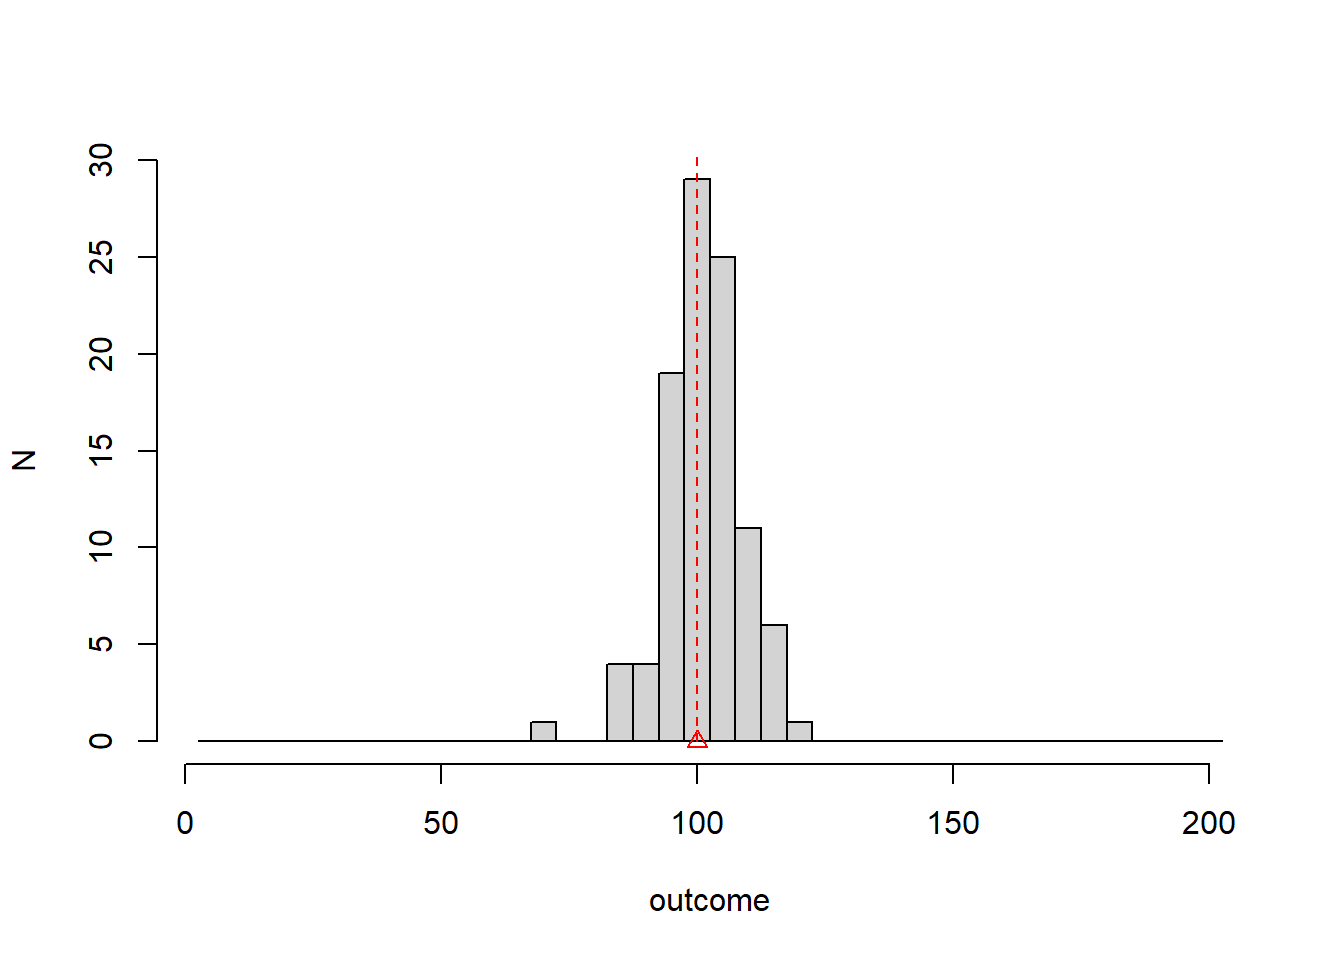
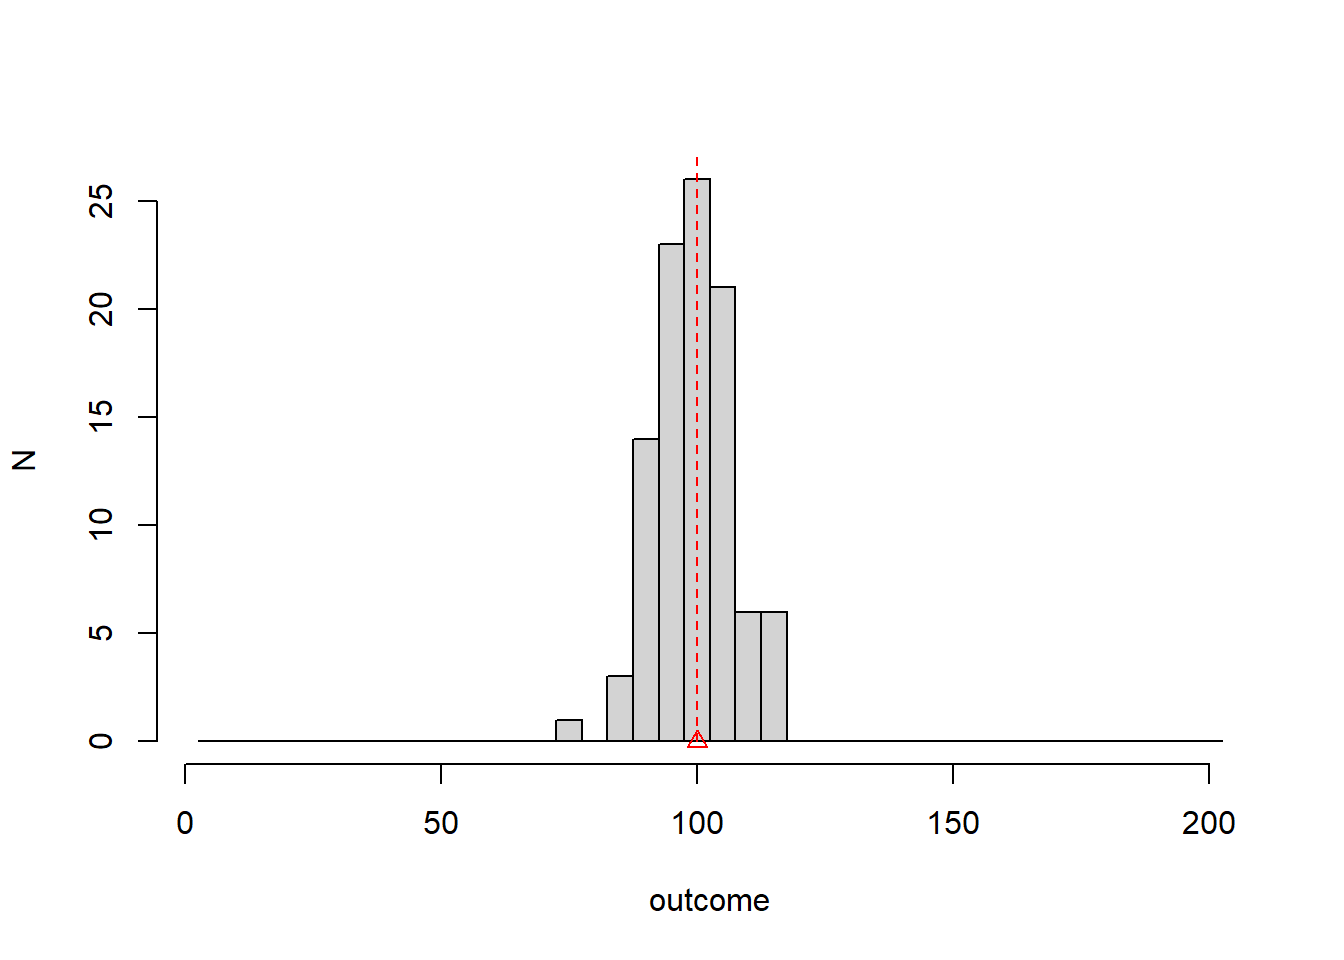
...

diff --git a/statsEEBE/probabilidad-condicional.html b/statsEEBE/probabilidad-condicional.html
@@ -24,7 +24,7 @@
 <meta name="author" content="Alejandro Caceres" />
 
 
-<meta name="date" content="2022-09-05" />
+<meta name="date" content="2022-09-09" />
 
   <meta name="viewport" content="width=device-width, initial-scale=1" />
   <meta name="apple-mobile-web-app-capable" content="yes" />
@@ -532,26 +532,26 @@ especificidad (0.962).</p>
 <table>
 <thead>
 <tr class="header">
-<th></th>
-<th>Infección: Sí</th>
-<th>Infección: Sí</th>
+<th align="center"></th>
+<th align="center">Infección: Sí</th>
+<th align="center">Infección: Sí</th>
 </tr>
 </thead>
 <tbody>
 <tr class="odd">
-<td><b>Test: positivo</b></td>
-<td>P(positivo<span>|</span>sí)=0.7</td>
-<td>P(positivo<span>|</span>no)=0.06</td>
+<td align="center"><b>Test: positivo</b></td>
+<td align="center">P(positivo<span>|</span>sí)=0.7</td>
+<td align="center">P(positivo<span>|</span>no)=0.06</td>
 </tr>
 <tr class="even">
-<td><b>Test: negativo</b></td>
-<td>P(negativo<span>|</span>sí)=0.3</td>
-<td>P(negativo<span>|</span>no)=0.94</td>
+<td align="center"><b>Test: negativo</b></td>
+<td align="center">P(negativo<span>|</span>sí)=0.3</td>
+<td align="center">P(negativo<span>|</span>no)=0.94</td>
 </tr>
 <tr class="odd">
-<td><b>suma</b></td>
-<td>1</td>
-<td>1</td>
+<td align="center"><b>suma</b></td>
+<td align="center">1</td>
+<td align="center">1</td>
 </tr>
 </tbody>
 </table>
@@ -664,30 +664,30 @@ especificidad (0.962).</p>
 <table>
 <thead>
 <tr class="header">
-<th></th>
-<th>Infección: Sí</th>
-<th>Infección: Sí</th>
-<th><b>suma</b></th>
+<th align="center"></th>
+<th align="center">Infección: Sí</th>
+<th align="center">Infección: Sí</th>
+<th align="center"><b>suma</b></th>
 </tr>
 </thead>
 <tbody>
 <tr class="odd">
-<td><b>Test: positivo</b></td>
-<td>P(positivo <span>|</span> sí)P(sí)</td>
-<td>P(positivo <span>|</span> no)P(no)</td>
-<td>P(positivo)</td>
+<td align="center"><b>Test: positivo</b></td>
+<td align="center">P(positivo <span>|</span> sí)P(sí)</td>
+<td align="center">P(positivo <span>|</span> no)P(no)</td>
+<td align="center">P(positivo)</td>
 </tr>
 <tr class="even">
-<td><b>Test: negativo</b></td>
-<td>P(negativo <span>|</span> sí)P(sí)</td>
-<td>P(negativo <span>|</span> no) P(no)</td>
-<td>P(negativo)</td>
+<td align="center"><b>Test: negativo</b></td>
+<td align="center">P(negativo <span>|</span> sí)P(sí)</td>
+<td align="center">P(negativo <span>|</span> no) P(no)</td>
+<td align="center">P(negativo)</td>
 </tr>
 <tr class="odd">
-<td><b>suma</b></td>
-<td>P(sí)</td>
-<td>P(no)</td>
-<td>1</td>
+<td align="center"><b>suma</b></td>
+<td align="center">P(sí)</td>
+<td align="center">P(no)</td>
+<td align="center">1</td>
 </tr>
 </tbody>
 </table>

diff --git a/statsEEBEen/conditional-probability.html b/statsEEBEen/conditional-probability.html
@@ -24,7 +24,7 @@
 <meta name="author" content="Alejandro Caceres" />
 
 
-<meta name="date" content="2022-09-05" />
+<meta name="date" content="2022-09-09" />
 
   <meta name="viewport" content="width=device-width, initial-scale=1" />
   <meta name="apple-mobile-web-app-capable" content="yes" />
@@ -531,26 +531,26 @@ specificity (0.962).</p>
 <table>
 <thead>
 <tr class="header">
-<th></th>
-<th>Infection: Yes</th>
-<th>Infection: No</th>
+<th align="center"></th>
+<th align="center">Infection: Yes</th>
+<th align="center">Infection: No</th>
 </tr>
 </thead>
 <tbody>
 <tr class="odd">
-<td><b>Test: positive</b></td>
-<td>P(positive<span>|</span>yes)=0.7</td>
-<td>P(positive<span>|</span>no)=0.06</td>
+<td align="center"><b>Test: positive</b></td>
+<td align="center">P(positive<span>|</span>yes)=0.7</td>
+<td align="center">P(positive<span>|</span>no)=0.06</td>
 </tr>
 <tr class="even">
-<td><b>Test: negative</b></td>
-<td>P(negative<span>|</span>yes)=0.3</td>
-<td>P(negative<span>|</span>no)=0.94</td>
+<td align="center"><b>Test: negative</b></td>
+<td align="center">P(negative<span>|</span>yes)=0.3</td>
+<td align="center">P(negative<span>|</span>no)=0.94</td>
 </tr>
 <tr class="odd">
-<td><b>sum</b></td>
-<td>1</td>
-<td>1</td>
+<td align="center"><b>sum</b></td>
+<td align="center">1</td>
+<td align="center">1</td>
 </tr>
 </tbody>
 </table>
@@ -663,30 +663,30 @@ specificity (0.962).</p>
 <table>
 <thead>
 <tr class="header">
-<th></th>
-<th>Infection: Yes</th>
-<th>Infection: No</th>
-<th><b>sum</b></th>
+<th align="center"></th>
+<th align="center">Infection: Yes</th>
+<th align="center">Infection: No</th>
+<th align="center"><b>sum</b></th>
 </tr>
 </thead>
 <tbody>
 <tr class="odd">
-<td><b>Test: positive</b></td>
-<td>P(positive <span>|</span> yes)P(yes)</td>
-<td>P(positive <span>|</span> no)P(no)</td>
-<td>P(positive)</td>
+<td align="center"><b>Test: positive</b></td>
+<td align="center">P(positive <span>|</span> yes)P(yes)</td>
+<td align="center">P(positive <span>|</span> no)P(no)</td>
+<td align="center">P(positive)</td>
 </tr>
 <tr class="even">
-<td><b>Test: negative</b></td>
-<td>P(negative <span>|</span> yes)P(yes)</td>
-<td>P(negative <span>|</span> no) P(no)</td>
-<td>P(negative)</td>
+<td align="center"><b>Test: negative</b></td>
+<td align="center">P(negative <span>|</span> yes)P(yes)</td>
+<td align="center">P(negative <span>|</span> no) P(no)</td>
+<td align="center">P(negative)</td>
 </tr>
 <tr class="odd">
-<td><b>sum</b></td>
-<td>P(yes)</td>
-<td>P(no)</td>
-<td>1</td>
+<td align="center"><b>sum</b></td>
+<td align="center">P(yes)</td>
+<td align="center">P(no)</td>
+<td align="center">1</td>
 </tr>
 </tbody>
 </table>

diff --git a/statsEEBE/probabilidad.html b/statsEEBE/probabilidad.html
@@ -24,7 +24,7 @@
 <meta name="author" content="Alejandro Caceres" />
 
 
-<meta name="date" content="2022-09-05" />
+<meta name="date" content="2022-09-09" />
 
   <meta name="viewport" content="width=device-width, initial-scale=1" />
   <meta name="apple-mobile-web-app-capable" content="yes" />
@@ -320,12 +320,12 @@
 <h2><span class="header-section-number">3.7</span> En el infinito<a href="probabilidad.html#en-el-infinito" class="anchor-section" aria-label="Anchor link to header"></a></h2>
 <p>Digamos que repetimos el experimento 1000 veces:</p>
 <pre><code>##   outcome  ni    fi
-## 1       1 146 0.146
-## 2       2 157 0.157
-## 3       3 183 0.183
-## 4       4 181 0.181
-## 5       5 180 0.180
-## 6       6 153 0.153</code></pre>
+## 1       1 149 0.149
+## 2       2 175 0.175
+## 3       3 171 0.171
+## 4       4 177 0.177
+## 5       5 161 0.161
+## 6       6 167 0.167</code></pre>
 <p>Encontramos que <span class="math inline">\(f_i\)</span> está convergiendo a un valor constante</p>
 <p><span class="math display">\[lim_{N\rightarrow \infty} f_i = P_i\]</span></p>
 <p><img src="_main_files/figure-html/unnamed-chunk-26-1.png" width="672" /></p>

diff --git a/statsEEBEen/probability.html b/statsEEBEen/probability.html
@@ -24,7 +24,7 @@
 <meta name="author" content="Alejandro Caceres" />
 
 
-<meta name="date" content="2022-09-05" />
+<meta name="date" content="2022-09-09" />
 
   <meta name="viewport" content="width=device-width, initial-scale=1" />
   <meta name="apple-mobile-web-app-capable" content="yes" />
@@ -319,12 +319,12 @@
 <h2><span class="header-section-number">3.7</span> At infinity<a href="probability.html#at-infinity" class="anchor-section" aria-label="Anchor link to header"></a></h2>
 <p>Say we repeated the experiment 1000 times:</p>
 <pre><code>##   outcome  ni    fi
-## 1       1 171 0.171
-## 2       2 167 0.167
-## 3       3 174 0.174
-## 4       4 159 0.159
-## 5       5 178 0.178
-## 6       6 151 0.151</code></pre>
+## 1       1 186 0.186
+## 2       2 163 0.163
+## 3       3 165 0.165
+## 4       4 153 0.153
+## 5       5 171 0.171
+## 6       6 162 0.162</code></pre>
 <p>We find that <span class="math inline">\(f_i\)</span> is converging to a constant value</p>
 <p><span class="math display">\[lim_{N\rightarrow \infty} f_i = P_i\]</span></p>
 <p><img src="_main_files/figure-html/unnamed-chunk-26-1.png" width="672" /></p>

diff --git a/statsEEBE/index.html b/statsEEBE/index.html
@@ -24,7 +24,7 @@
 <meta name="author" content="Alejandro Caceres" />
 
 
-<meta name="date" content="2022-09-05" />
+<meta name="date" content="2022-09-09" />
 
   <meta name="viewport" content="width=device-width, initial-scale=1" />
   <meta name="apple-mobile-web-app-capable" content="yes" />
@@ -226,7 +226,7 @@
 <div id="header">
 <h1 class="title">Estadística</h1>
 <p class="author"><em>Alejandro Caceres</em></p>
-<p class="date"><em>2022-09-05</em></p>
+<p class="date"><em>2022-09-09</em></p>
 </div>
 <div id="objetivo" class="section level1 hasAnchor" number="1">
 <h1><span class="header-section-number">Chapter 1</span> Objetivo<a href="index.html#objetivo" class="anchor-section" aria-label="Anchor link to header"></a></h1>

diff --git a/statsEEBEen/index.html b/statsEEBEen/index.html
@@ -24,7 +24,7 @@
 <meta name="author" content="Alejandro Caceres" />
 
 
-<meta name="date" content="2022-09-05" />
+<meta name="date" content="2022-09-09" />
 
   <meta name="viewport" content="width=device-width, initial-scale=1" />
   <meta name="apple-mobile-web-app-capable" content="yes" />
@@ -225,7 +225,7 @@
 <div id="header">
 <h1 class="title">Stats theory (SDA)</h1>
 <p class="author"><em>Alejandro Caceres</em></p>
-<p class="date"><em>2022-09-05</em></p>
+<p class="date"><em>2022-09-09</em></p>
 </div>
 <div id="about" class="section level1 hasAnchor" number="1">
 <h1><span class="header-section-number">Chapter 1</span> About<a href="index.html#about" class="anchor-section" aria-label="Anchor link to header"></a></h1>

diff --git a/statsEEBE/descripción-de-datos.html b/statsEEBE/descripción-de-datos.html
@@ -24,7 +24,7 @@
 <meta name="author" content="Alejandro Caceres" />
 
 
-<meta name="date" content="2022-09-05" />
+<meta name="date" content="2022-09-09" />
 
   <meta name="viewport" content="width=device-width, initial-scale=1" />
   <meta name="apple-mobile-web-app-capable" content="yes" />

diff --git a/statsEEBE/ejercicios.html b/statsEEBE/ejercicios.html
@@ -24,7 +24,7 @@
 <meta name="author" content="Alejandro Caceres" />
 
 
-<meta name="date" content="2022-09-05" />
+<meta name="date" content="2022-09-09" />
 
   <meta name="viewport" content="width=device-width, initial-scale=1" />
   <meta name="apple-mobile-web-app-capable" content="yes" />

diff --git a/statsEEBEen/data-description.html b/statsEEBEen/data-description.html
@@ -24,7 +24,7 @@
 <meta name="author" content="Alejandro Caceres" />
 
 
-<meta name="date" content="2022-09-05" />
+<meta name="date" content="2022-09-09" />
 
   <meta name="viewport" content="width=device-width, initial-scale=1" />
   <meta name="apple-mobile-web-app-capable" content="yes" />

diff --git a/statsEEBEen/exercises.html b/statsEEBEen/exercises.html
@@ -24,7 +24,7 @@
 <meta name="author" content="Alejandro Caceres" />
 
 
-<meta name="date" content="2022-09-05" />
+<meta name="date" content="2022-09-09" />
 
   <meta name="viewport" content="width=device-width, initial-scale=1" />
   <meta name="apple-mobile-web-app-capable" content="yes" />
